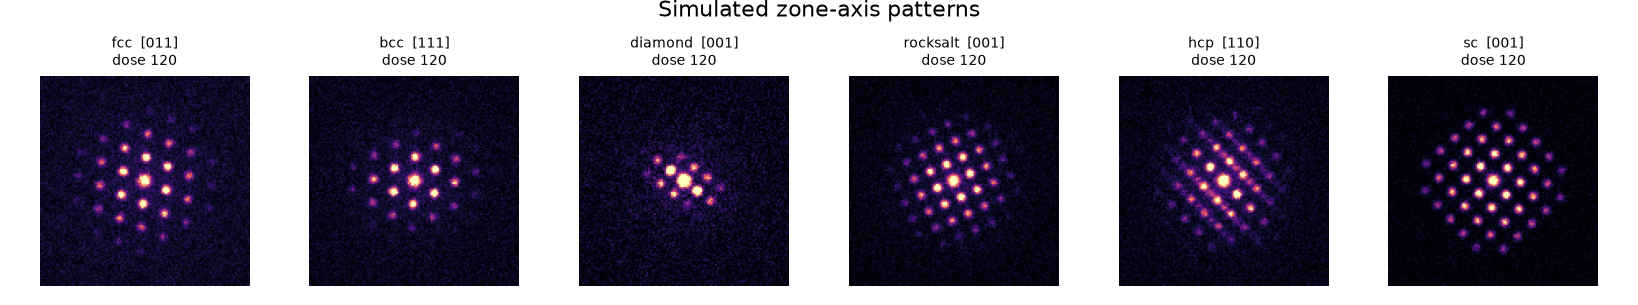
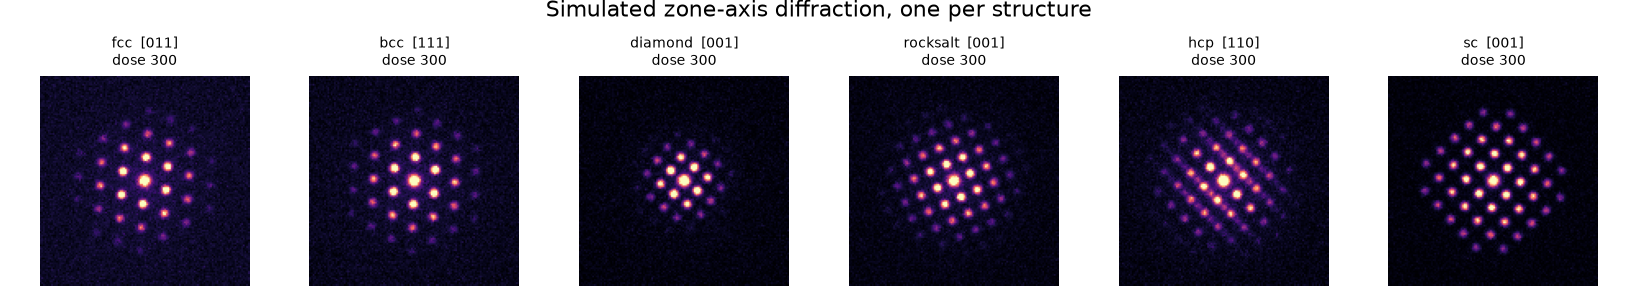
improve: clean textbook reference samples and gallery, add leakage integrity test
- Committed samples and gallery now use dose 300 on-zone (textbook reference);
  the pattern CNN demo goes 4/6 -> 5/6 (bcc->sc the only miss, not cherry-picked).
- Add test_blank_patterns_are_unclassifiable guarding the leakage claim.

diff --git a/src/crystalclass/cli.py b/src/crystalclass/cli.py
@@ -36,15 +36,25 @@ DEFAULT_MODELS = {
     "classical": "models/classical_rf.joblib",
 }
 
-# (name, structure, dose, seed): the committed reference samples.
+# The committed reference samples are clean textbook patterns: high dose and
+# aligned on the zone axis (no off-zone tilt), which is how a microscopist would
+# record a reference. The in-plane orientation is still random.
+SAMPLE_DOSE = 300.0
+SAMPLE_ORIENTATION = 0.0
+
+# (name, structure, seed): the committed reference samples.
 SAMPLES = (
-    ("fcc_cu", "fcc", 120.0, 0),
-    ("bcc_fe", "bcc", 120.0, 1),
-    ("diamond_si", "diamond", 120.0, 2),
-    ("rocksalt_nacl", "rocksalt", 120.0, 3),
-    ("hcp_ti", "hcp", 120.0, 4),
-    ("sc_po", "sc", 120.0, 5),
+    ("fcc_cu", "fcc", 0),
+    ("bcc_fe", "bcc", 1),
+    ("diamond_si", "diamond", 2),
+    ("rocksalt_nacl", "rocksalt", 3),
+    ("hcp_ti", "hcp", 4),
+    ("sc_po", "sc", 5),
 )
+
+
+def _sample_config(structure: str) -> SimConfig:
+    return SimConfig(structure=structure, dose=SAMPLE_DOSE, orientation_spread=SAMPLE_ORIENTATION)
 
 
 def _cmd_simulate(args: argparse.Namespace) -> None:
@@ -136,19 +146,17 @@ def _cmd_benchmark(args: argparse.Namespace) -> None:
 
 
 def _cmd_samples(args: argparse.Namespace) -> None:
-    for name, structure, dose, seed in SAMPLES:
-        cfg = SimConfig(structure=structure, dose=dose)
-        pattern = simulate(cfg, np.random.default_rng(seed))
+    for name, structure, seed in SAMPLES:
+        pattern = simulate(_sample_config(structure), np.random.default_rng(seed))
         path = Path("data/sample") / f"{name}.npz"
         save_pattern(path, pattern)
         print(f"wrote {path}  ({pattern.label}, {pattern.meta['n_spots']} spots)")
 
 
 def _cmd_gallery(args: argparse.Namespace) -> None:
-    patterns = []
-    for name, structure, dose, seed in SAMPLES:
-        cfg = SimConfig(structure=structure, dose=dose)
-        patterns.append(simulate(cfg, np.random.default_rng(seed)))
+    patterns = [
+        simulate(_sample_config(structure), np.random.default_rng(seed)) for _, structure, seed in SAMPLES
+    ]
     out = args.out or "figures/pattern_gallery.png"
     plot_pattern_gallery(patterns, out, title="Simulated zone-axis diffraction, one per structure")
     print(f"wrote {out}")
@@ -159,7 +167,7 @@ def _cmd_demo(args: argparse.Namespace) -> None:
 
     model = load_pattern_model(args.model or DEFAULT_MODELS["pattern"])
     correct = 0
-    for name, structure, dose, seed in SAMPLES:
+    for name, structure, seed in SAMPLES:
         pattern = load_pattern(Path("data/sample") / f"{name}.npz")
         pred = LABELS[int(predict_pattern(model, pattern.image[None])[0])]
         ok = pred == pattern.label

diff --git a/scripts/make_figures.py b/scripts/make_figures.py
@@ -9,9 +9,9 @@ Run after the benchmarks have been executed:
     for c in configs/*.yaml; do crystalclass benchmark $c; done
     python scripts/make_figures.py
 
-It reads ``results/*.json`` and writes the sweep curves, the confusion-matrix
-hero, the per-class recall bars, and the ablation chart. The labelled pattern
-gallery is regenerated directly from the simulator.
+It reads ``results/*.json`` and writes the sweep curves, the confusion matrix,
+the per-class recall bars, and the ablation chart. The labelled pattern gallery
+is regenerated directly from the simulator.
 """
 
 from __future__ import annotations
@@ -44,15 +44,12 @@ def _load(name: str) -> dict:
 
 
 def gallery() -> None:
-    specs = [
-        ("fcc", 120.0, 0),
-        ("bcc", 120.0, 1),
-        ("diamond", 120.0, 2),
-        ("rocksalt", 120.0, 3),
-        ("hcp", 120.0, 4),
-        ("sc", 120.0, 5),
+    # Clean textbook reference patterns: high dose, aligned on the zone axis.
+    specs = [("fcc", 0), ("bcc", 1), ("diamond", 2), ("rocksalt", 3), ("hcp", 4), ("sc", 5)]
+    patterns = [
+        simulate(SimConfig(structure=s, dose=300.0, orientation_spread=0.0), np.random.default_rng(seed))
+        for s, seed in specs
     ]
-    patterns = [simulate(SimConfig(structure=s, dose=d), np.random.default_rng(seed)) for s, d, seed in specs]
     plot_pattern_gallery(patterns, FIGURES / "pattern_gallery.png", title="Simulated zone-axis patterns")
 
 
@@ -99,28 +96,12 @@ def ablation() -> None:
     plt.close(fig)
 
 
-def hero() -> None:
-    """Compose the confusion matrix and the gallery into one hero image."""
-    conf = FIGURES / "confusion_matrix.png"
-    gal = FIGURES / "pattern_gallery.png"
-    if not (conf.exists() and gal.exists()):
-        return
-    fig, axes = plt.subplots(1, 2, figsize=(12, 4.8))
-    for ax, img, title in zip(axes, [gal, conf], ["", ""]):
-        ax.imshow(plt.imread(img))
-        ax.axis("off")
-    fig.tight_layout()
-    fig.savefig(FIGURES / "hero.png", dpi=130)
-    plt.close(fig)
-
-
 def main() -> None:
     FIGURES.mkdir(exist_ok=True)
     gallery()
     sweeps()
     confusion_and_per_class()
     ablation()
-    hero()
     print("figures written to", FIGURES)
 
 

diff --git a/tests/test_pipeline.py b/tests/test_pipeline.py
@@ -35,6 +35,18 @@ def test_classical_beats_chance():
     assert acc > 1.0 / len(LABELS)
 
 
+def test_blank_patterns_are_unclassifiable():
+    # With the diffracted spots removed (only beam + background remain), there is
+    # no physics to classify, so a fitted classifier must stay near the 1/6
+    # chance level. This guards the leakage-control claim as a unit test.
+    base = SimConfig(blank_spots=True)
+    train = make_dataset(len(LABELS) * 20, seed=0, base=base)
+    test = make_dataset(len(LABELS) * 20, seed=1, base=base)
+    model = train_classical(train.images, train.labels, kind="rf", default=True)
+    acc = accuracy(test.labels, model.predict(test.images))
+    assert acc < 0.35  # near 1/6 = 0.167, far below the real ~0.55 baseline
+
+
 def test_cnn_trains_and_beats_chance():
     settings = TrainSettings(model="radial", pool_size=180, epochs=3, seed=0)
     model, history = train_model(settings)